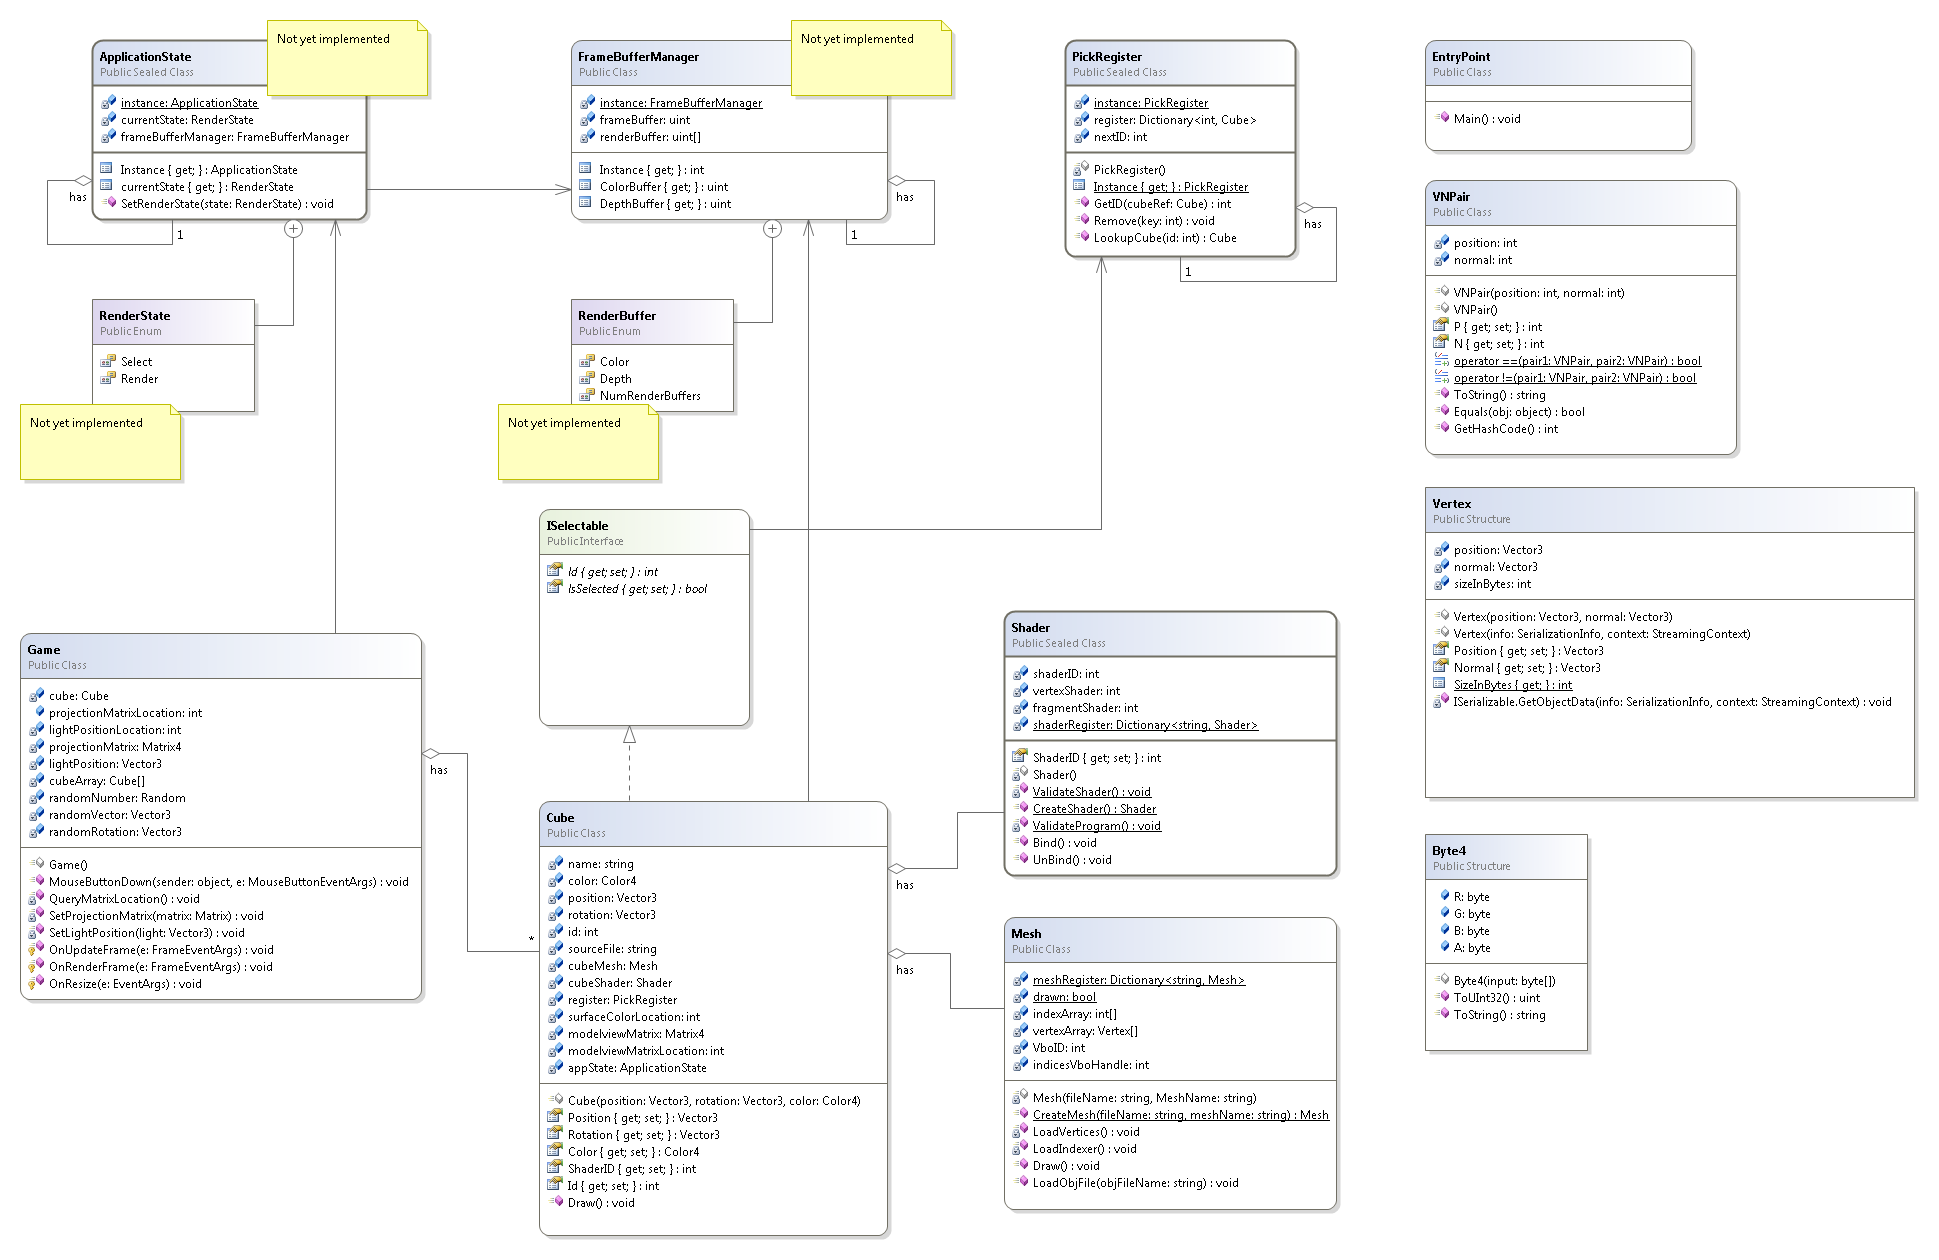
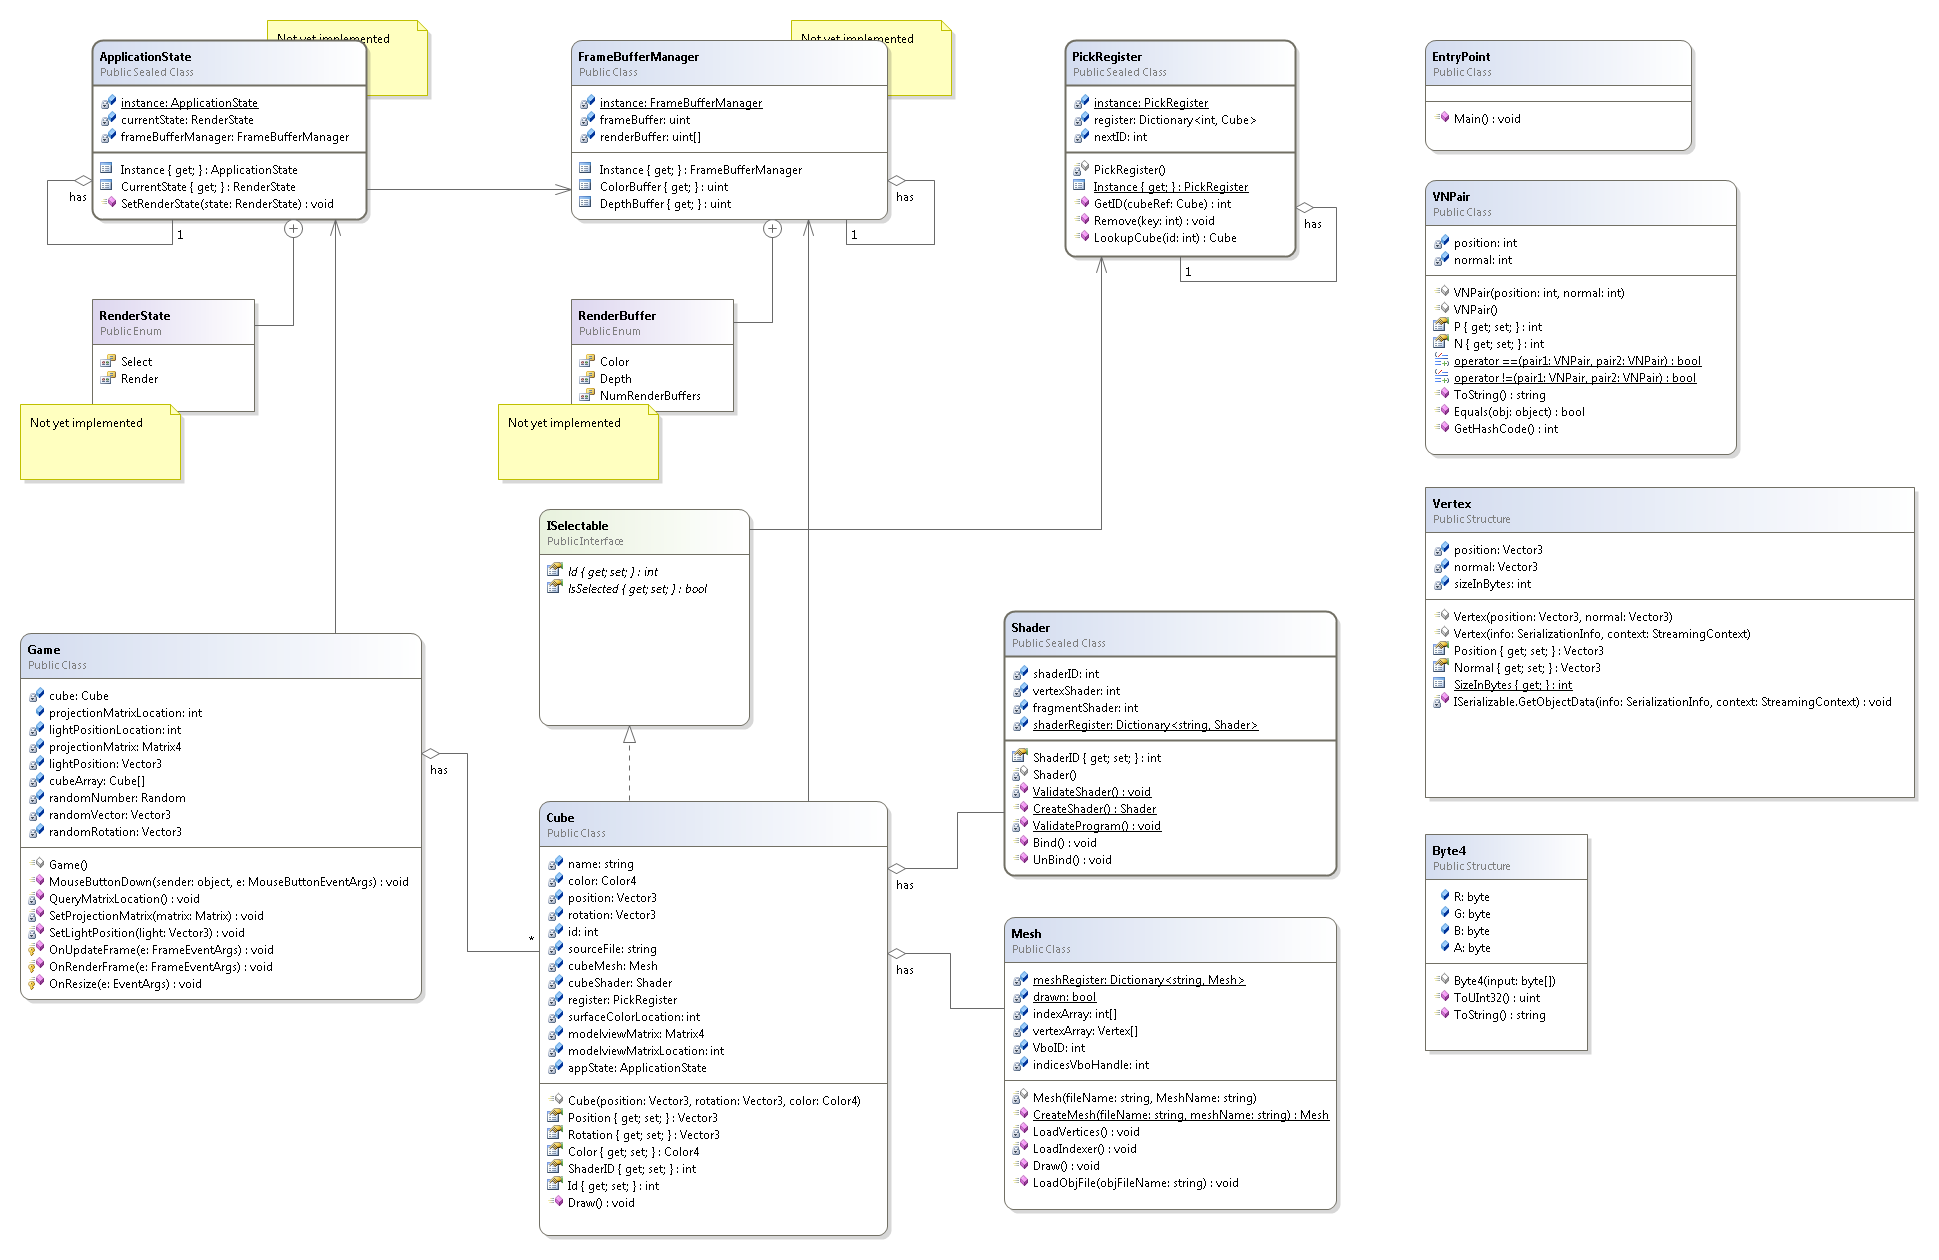
Mid way through implementing the ApplicationState and FrameBufferManager classes, and their enumerators. Moved PickRegister class code into ManagerClasses.cs. Updating UML as I go.

Changed region(s): [[0.1238, 0.031, 0.2166, 0.0929], [0.4023, 0.031, 0.4642, 0.0929]]

diff --git a/ManagerClasses.cs b/ManagerClasses.cs
@@ -1,0 +1,115 @@
+using System;
+using System.IO;
+using System.Collections.Generic;
+using OpenTK;
+using OpenTK.Graphics.OpenGL;
+using OpenTK.Graphics;
+
+namespace LearnShader
+{
+    public enum RenderState
+    {
+        Select,
+        Render
+    }
+
+
+    public enum RenderBuffer
+    {
+        Color,
+        Depth,
+        NumRenderBuffers
+    }
+
+
+    public sealed class ApplicationState
+    {
+        private static ApplicationState instance;
+        RenderState currentState;
+        FrameBufferManager frameBufferManager;
+
+        private ApplicationState()
+        {
+            frameBufferManager = FrameBufferManager.Instance;
+            currentState = RenderState.Render; //Default state
+        }
+
+        public static ApplicationState Instance
+        {
+            get { return instance; }
+        }
+
+        RenderState CurrentState
+        {
+            get { return currentState; }
+        }
+
+        public void SetRenderState(RenderState state)
+        {
+            currentState = state;
+            // Manipulate the FrameBufferManager to change system RenderBuffers.
+        }
+    }
+
+
+    public class FrameBufferManager
+    {
+        private static FrameBufferManager instance;
+        uint frameBuffer;
+        uint[] renderBuffer;
+
+        public static FrameBufferManager Instance
+        {
+            get { return instance; }
+        }
+
+        uint ColorBuffer
+        {
+            get { return renderBuffer[(uint)RenderBuffer.Color]; }
+        }
+
+        uint DepthBuffer
+        {
+            get { return renderBuffer[(uint)RenderBuffer.Depth]; }
+        }
+    }
+
+
+    public sealed class PickRegister
+    {
+        private static readonly PickRegister instance = new PickRegister();
+        private Dictionary<int, ISelectable> register = new Dictionary<int, ISelectable>();
+        private static int nextId = 8000000;
+
+        public int GetId(ISelectable selectableRef)
+        {
+            nextId = nextId + 100000;
+            register.Add(nextId, selectableRef);
+
+            return nextId;
+        }
+
+        public void Remove(int key)
+        {
+            register.Remove(key);
+        }
+
+        public ISelectable LookupSelectable(int id)
+        {
+            if (register.ContainsKey(id))
+                return register[id];
+            return null;
+        }
+
+        private PickRegister()
+        {
+        }
+
+        public static PickRegister Instance
+        {
+            get { return instance; }
+        }
+    }
+
+
+}

diff --git a/Geometry.cs b/Geometry.cs
@@ -11,44 +11,17 @@ namespace LearnShader
 {
     public interface ISelectable
     {
+        /// <summary>
+        /// Returns the instance id
+        /// </summary>
         int Id { get; }
+
+        /// <summary>
+        /// If the instance is selected the property returns true.
+        /// TODO: This might be related to a selection register.
+        /// </summary>
         bool IsSelected { get; }
-    }
 
-    public sealed class PickRegister
-    {
-        private static readonly PickRegister instance = new PickRegister();
-        private Dictionary<int, ISelectable> register = new Dictionary<int, ISelectable>();
-        private static int nextId = 8000000;
-
-        public int GetId(ISelectable selectableRef)
-        {
-            nextId = nextId + 100000;
-            register.Add(nextId, selectableRef);
-
-            return nextId;
-        }
-
-        public void Remove(int key)
-        {
-            register.Remove(key);
-        }
-
-        public ISelectable LookupSelectable(int id)
-        {
-            if (register.ContainsKey(id))
-                return register[id];
-            return null;
-        }
-
-        private PickRegister()
-        {
-        }
-
-        public static PickRegister Instance
-        {
-            get { return instance; }
-        }
     }
 
     class Mesh
@@ -257,7 +230,6 @@ namespace LearnShader
         Matrix4 modelviewMatrix;
         int modelviewMatrixLocation;
         private string name = "cube";
-        PickRegister register;
         private int id;
         private bool isSelected;
 
@@ -265,11 +237,8 @@ namespace LearnShader
         {
             this.position = position;
             this.rotation = rotation;
-            //this.color = color;
 
-            register = PickRegister.Instance;
-            id = register.GetId(this);
-
+            this.registerCube();
             this.color = new Color4((byte)id, (byte)(id >> 8), (byte)(id >> 16), (byte)(id >> 24));
 
             sourceFile = @"C:\Temp\cube.obj";
@@ -287,6 +256,11 @@ namespace LearnShader
 
             surfaceColorLocation = GL.GetUniformLocation(cubeShader.ShaderID, "surfaceColor");
             modelviewMatrixLocation = GL.GetUniformLocation(cubeShader.ShaderID, "modelview_matrix");
+        }
+
+        private void registerCube()
+        {
+            id = PickRegister.Instance.GetId(this);
         }
 
         public Vector3 Position
